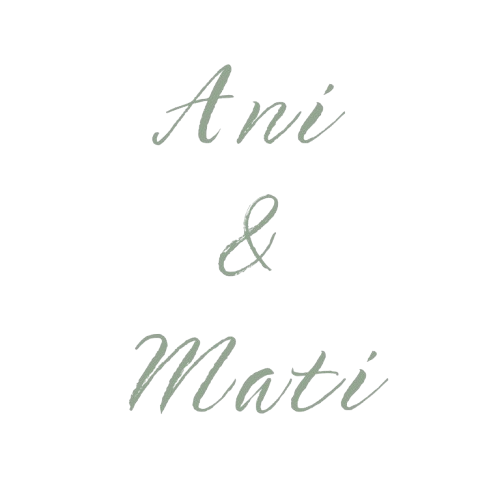
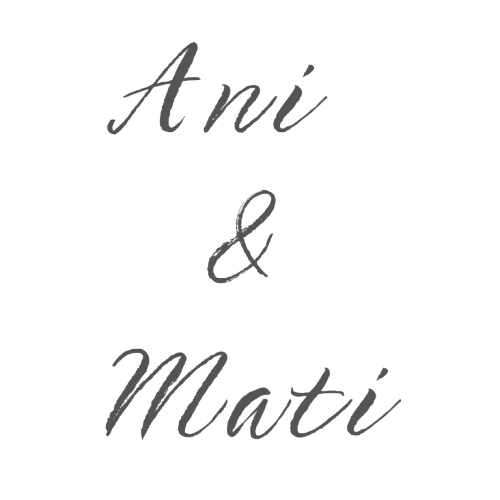
LISTO

diff --git a/style.css b/style.css
@@ -358,12 +358,13 @@ margin-top: -50%;
 
 }
 .novios{
-  width:46%;
-  margin-left: 26%;
+  width:45%;
+  margin-left: 27%;
+  margin-top: 5%;
 }
 .gif-final {
 width: 8%;
-margin-top: -7%;
+margin-top: 3%;
 margin-left: 45%;
 }
 
